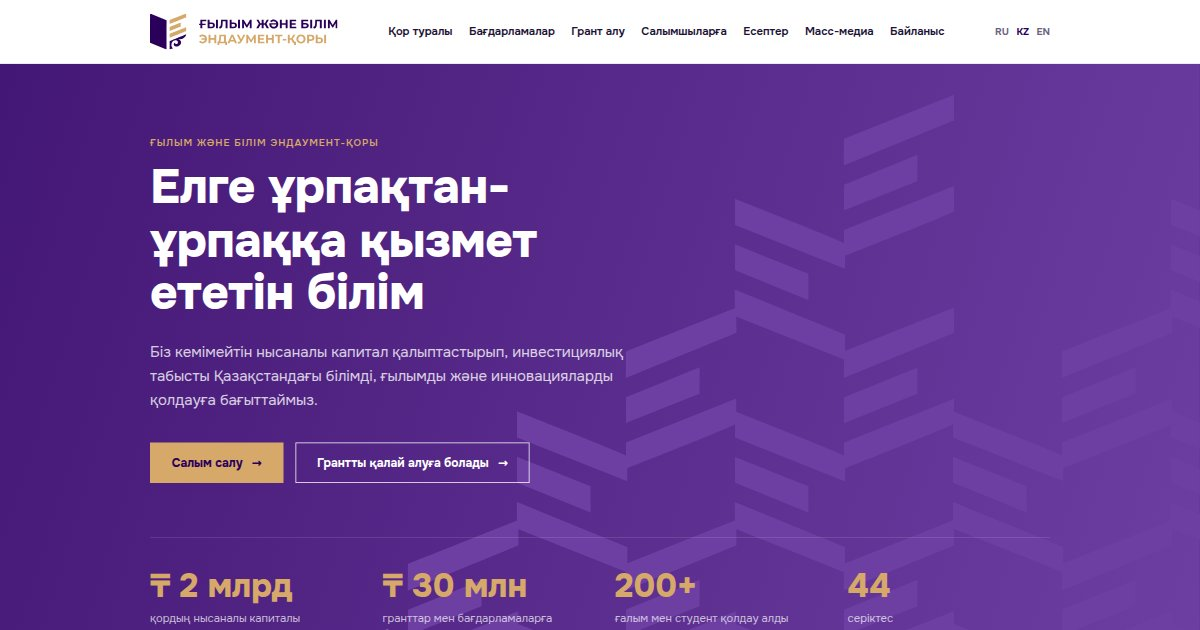
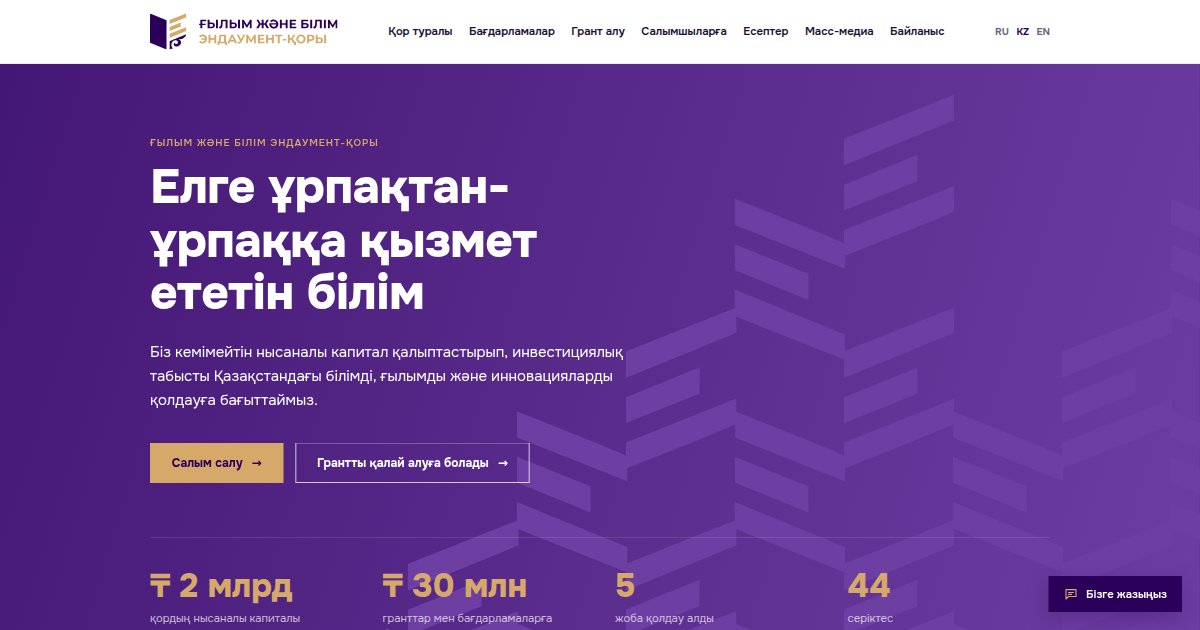
Главная: «5 проектов поддержано» вместо «200+»; обновлено OG-превью
Claude-Session: https://claude.ai/code/session_01XUb5ZNUw9HyoULA7bBhtLk

diff --git a/i18n/kz.js b/i18n/kz.js
@@ -34,7 +34,7 @@ module.exports = {
     h1: 'Елге ұрпақтан-ұрпаққа қызмет ететін білім',
     lead: 'Біз кемімейтін нысаналы капитал қалыптастырып, инвестициялық табысты Қазақстандағы білімді, ғылымды және инновацияларды қолдауға бағыттаймыз.',
     btnGrant: 'Грантты қалай алуға болады', heroPhoto: 'Фото: зертханадағы зерттеушілер',
-    stats: [['₸ 2 млрд', 'қордың нысаналы капиталы'], ['₸ 30 млн', 'гранттар мен бағдарламаларға бағытталды'], ['200+', 'ғалым мен студент қолдау алды'], ['44', 'серіктес']],
+    stats: [['₸ 2 млрд', 'қордың нысаналы капиталы'], ['₸ 30 млн', 'гранттар мен бағдарламаларға бағытталды'], ['5', 'жоба қолдау алды'], ['44', 'серіктес']],
     aboutEb: 'Қор туралы', aboutH: 'Маңызды өзгерістер қолдау мүмкіндікке айналған жерде басталады',
     aboutP1: '«Ғылым және білім эндаумент-қоры» корпоративтік нысаналы капитал қоры — Қазақстанда жаңа құқықтық модель бойынша құрылған алғашқы эндаумент-қор. Құрылтайшысы — Alageum Electric компаниясы, бастапқы капиталы — ₸ 2 млрд.',
     aboutP2: 'Қордың басты қағидаты: капиталды сақтаймыз — тек табысты пайдаланамыз. Сондықтан ғылымды, білімді және инновацияларды қолдау бюджеттік циклдерге тәуелді емес.',

diff --git a/i18n/ru.js b/i18n/ru.js
@@ -34,7 +34,7 @@ module.exports = {
     h1: 'Знания, которые служат стране поколениями',
     lead: 'Мы формируем неснижаемый целевой капитал и направляем инвестиционный доход на поддержку образования, науки и инноваций в Казахстане.',
     btnGrant: 'Как получить грант', heroPhoto: 'Фото: исследователи в лаборатории',
-    stats: [['₸ 2 млрд', 'целевой капитал фонда'], ['₸ 30 млн', 'направлено на гранты и программы'], ['200+', 'учёных и студентов получили поддержку'], ['44', 'партнёров']],
+    stats: [['₸ 2 млрд', 'целевой капитал фонда'], ['₸ 30 млн', 'направлено на гранты и программы'], ['5', 'проектов поддержано'], ['44', 'партнёров']],
     aboutEb: 'О фонде', aboutH: 'Значимые перемены начинаются там, где поддержка превращается в возможности',
     aboutP1: 'Корпоративный фонд целевого капитала «Эндаумент-фонд науки и образования» — первый в Казахстане эндаумент-фонд, созданный по новой правовой модели. Учредитель — компания Alageum Electric, первоначальный капитал — ₸ 2 млрд.',
     aboutP2: 'Главный принцип фонда: сохраняем капитал — используем только доход. Поэтому поддержка науки, образования и инноваций не зависит от бюджетных циклов.',

diff --git a/i18n/en.js b/i18n/en.js
@@ -34,7 +34,7 @@ module.exports = {
     h1: 'Knowledge that serves the country for generations',
     lead: 'We build permanent endowment capital and direct its investment income to supporting education, science and innovation in Kazakhstan.',
     btnGrant: 'How to apply for a grant', heroPhoto: 'Photo: researchers in a laboratory',
-    stats: [['₸ 2 bn', 'endowment capital'], ['₸ 30 m', 'awarded to grants and programmes'], ['200+', 'researchers and students supported'], ['44', 'partners']],
+    stats: [['₸ 2 bn', 'endowment capital'], ['₸ 30 m', 'awarded to grants and programmes'], ['5', 'projects supported'], ['44', 'partners']],
     aboutEb: 'About the Fund', aboutH: 'Real change begins where support turns into opportunity',
     aboutP1: 'The Science and Education Endowment Fund is the first endowment fund in Kazakhstan created under the new legal model. It was founded by Alageum Electric with initial capital of ₸ 2 bn.',
     aboutP2: 'The Fund’s core principle: preserve the capital, use only the income. This keeps support for science, education and innovation independent of budget cycles.',
